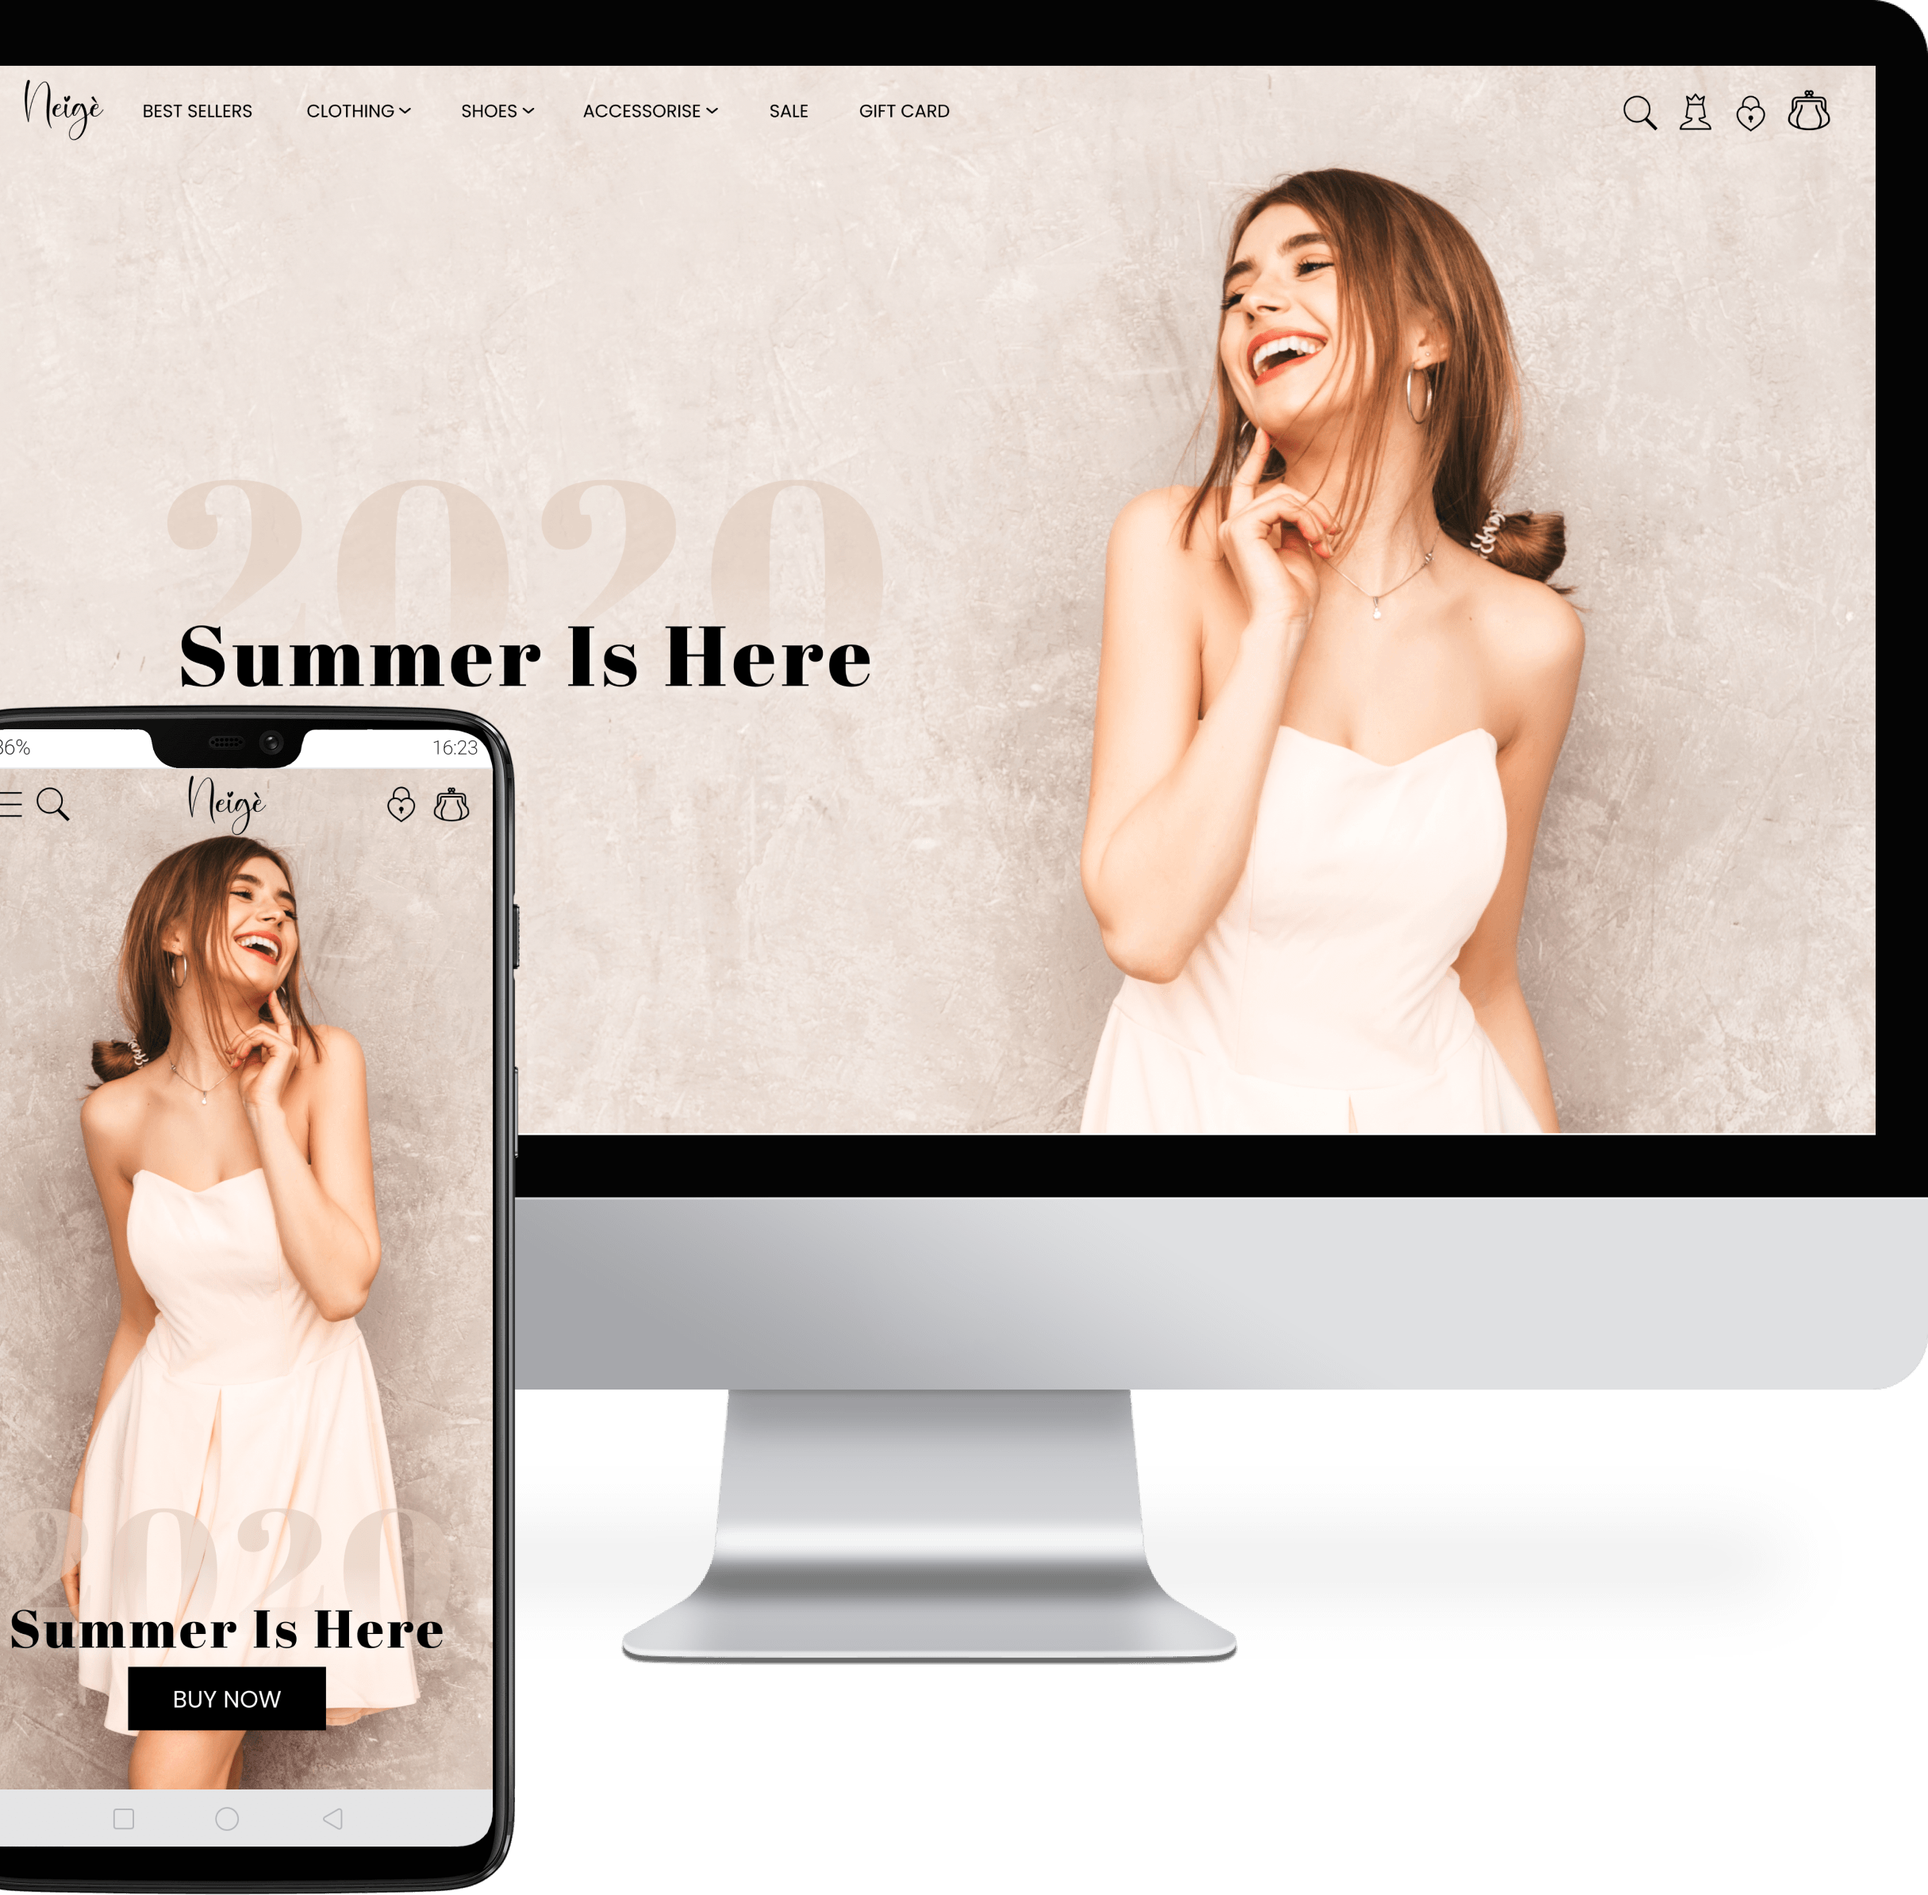
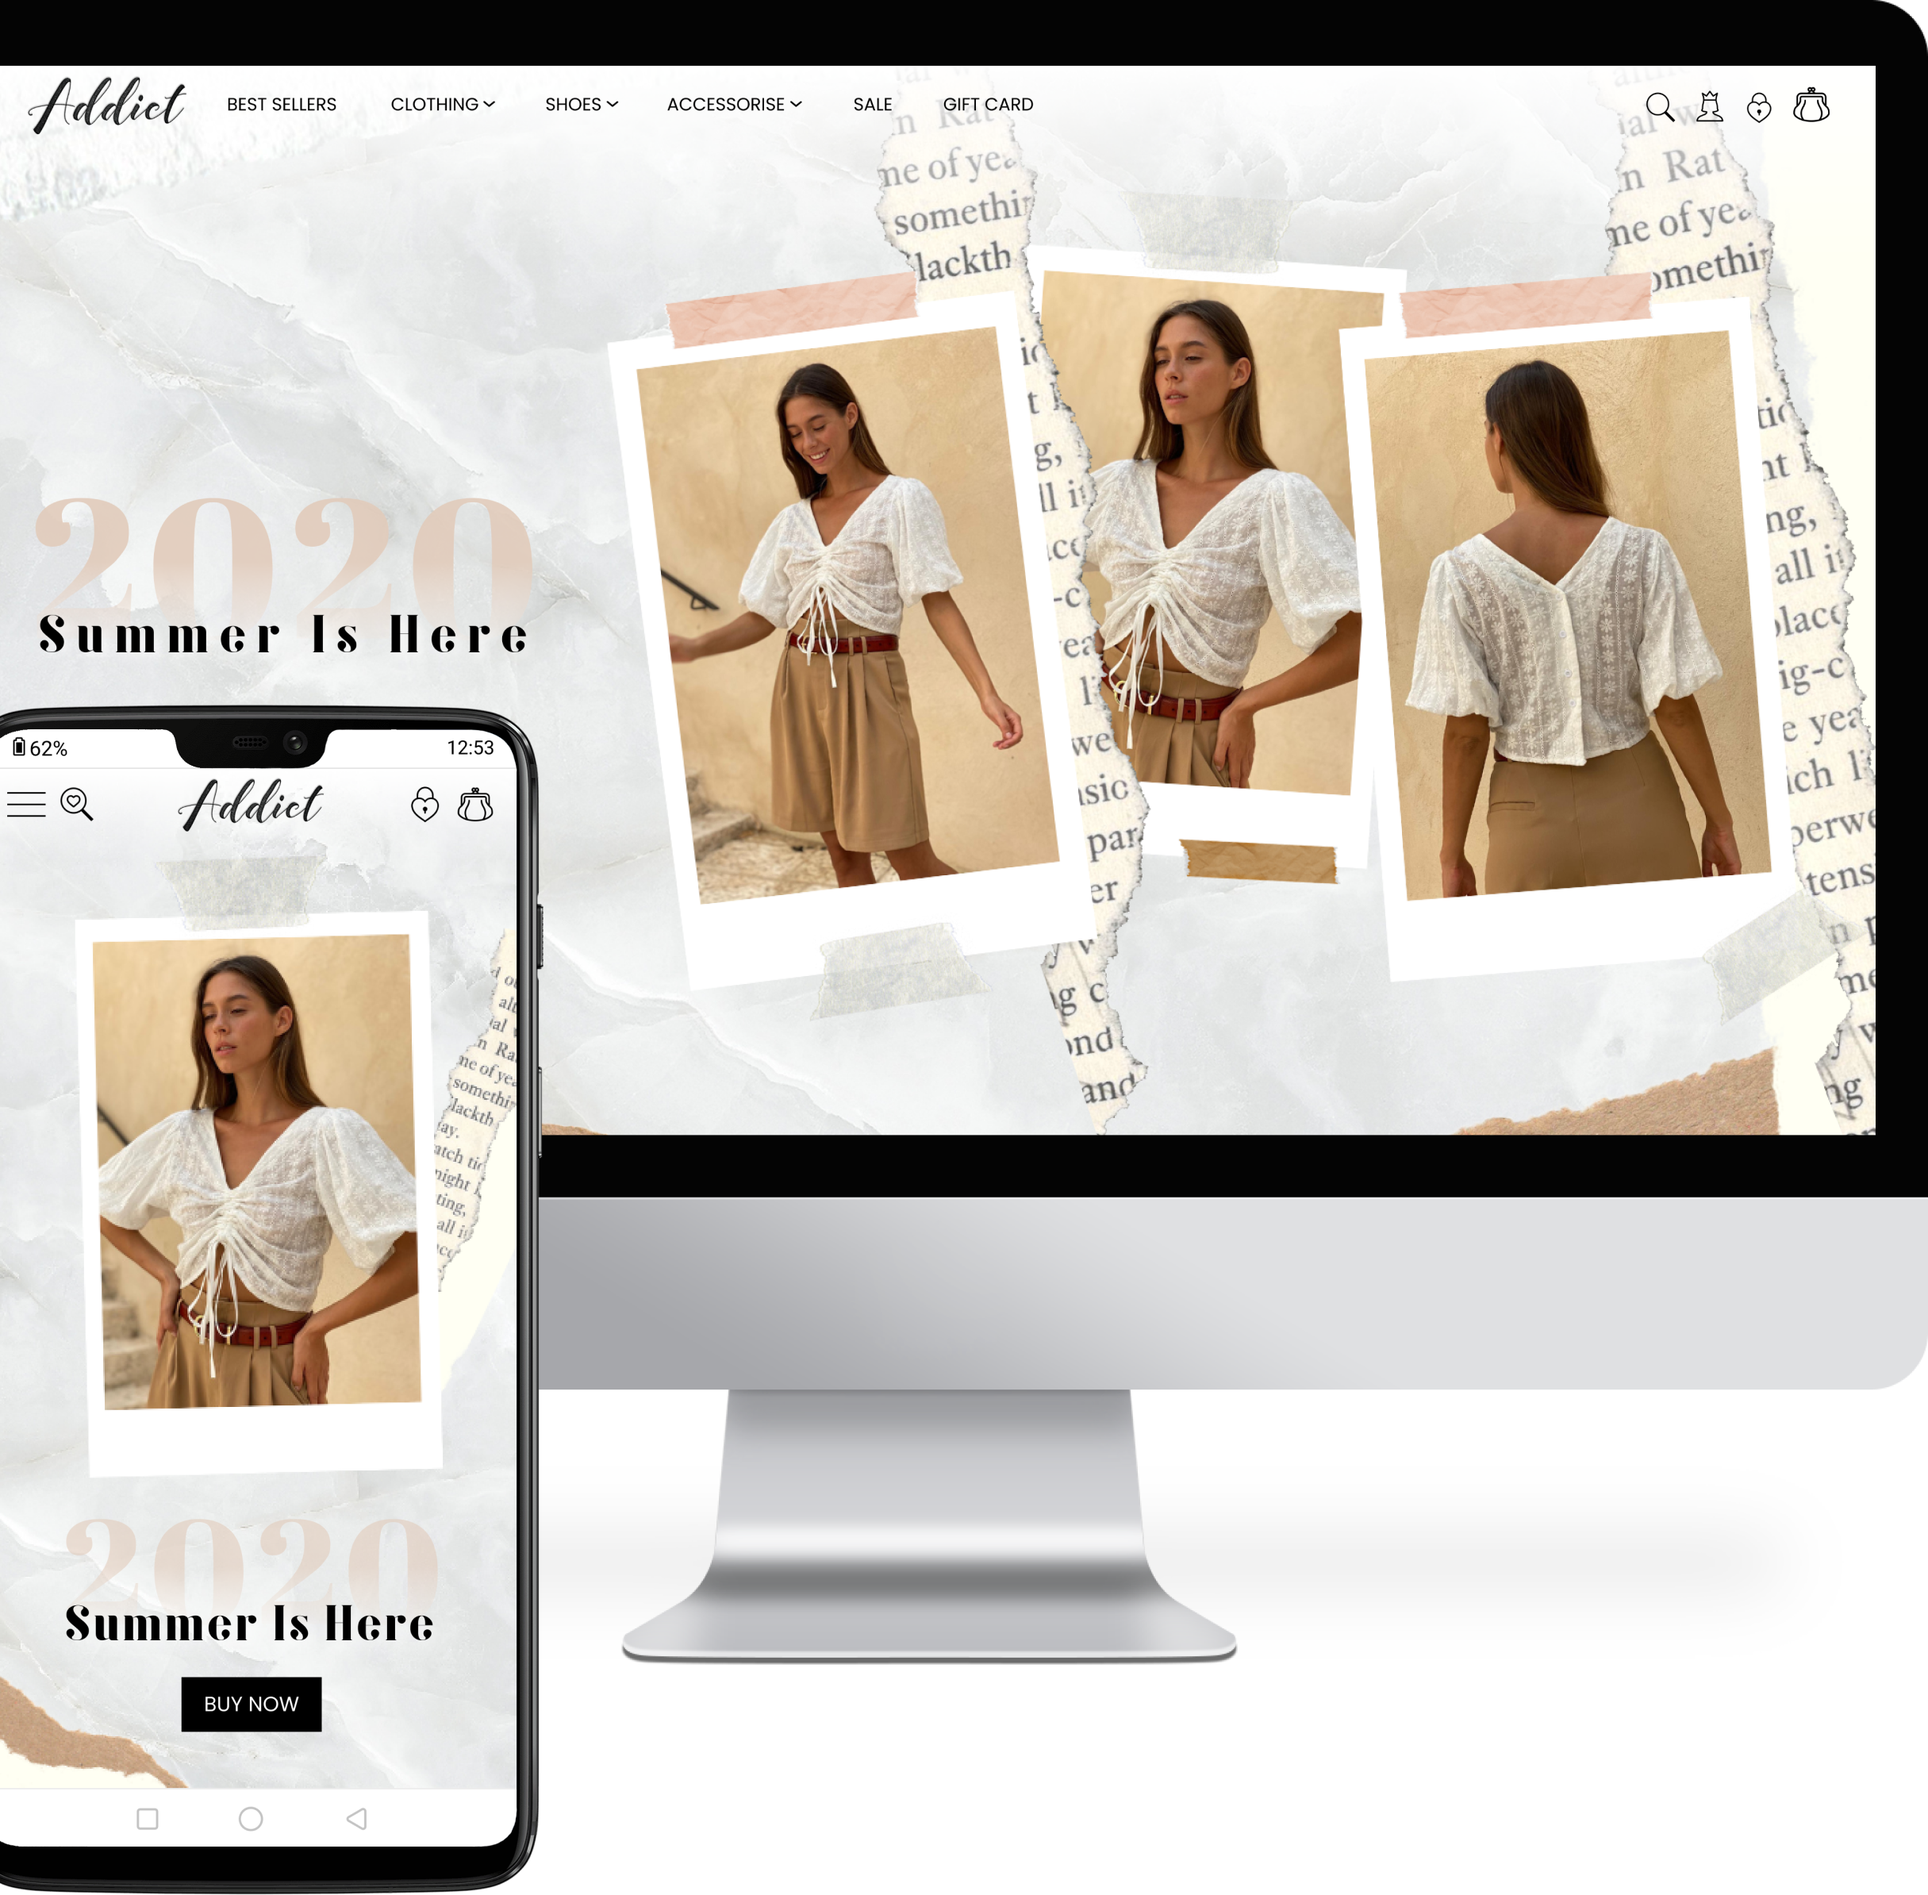
neige made addicted

diff --git a/src/app/pages/home/home.component.html b/src/app/pages/home/home.component.html
@@ -337,14 +337,14 @@
     <img src="/assets/home-page/4%20-%20Wisehome/mockups WH.png"/>
   </div>
 </div>
-<div id="home-neige" class="screen neige"  [routerLink]="route" [fragment]="'home-neige'">
+<div id="home-addict" class="screen addict"  [routerLink]="route" [fragment]="'home-addict'">
   <div class="picture">
     <img src="/assets/home-page/5%20-%20ecommerce/mockups N.png"/>
   </div>
   <div class="container">
     <div class="content">
-      <h2 class="headline">Neigè</h2>
-      <div class="description">UX | UI Design Desktop E-commerce</div>
+      <h2 class="headline">Addict</h2>
+      <div class="description">Re-Design, Branding & UX | UI Design</div>
       <div class="view button">
         <a href="/addict">VIEW PROJECT</a>
       </div>

diff --git a/src/app/pages/home/home.component.scss b/src/app/pages/home/home.component.scss
@@ -257,7 +257,7 @@ $cell: $gridWidth / 12;
       }
     }
 
-    &.neige {
+    &.addict {
       width: 100%;
       background: url('/assets/home-page/5 - ecommerce/Neige Background.png');
       background-size: cover;
